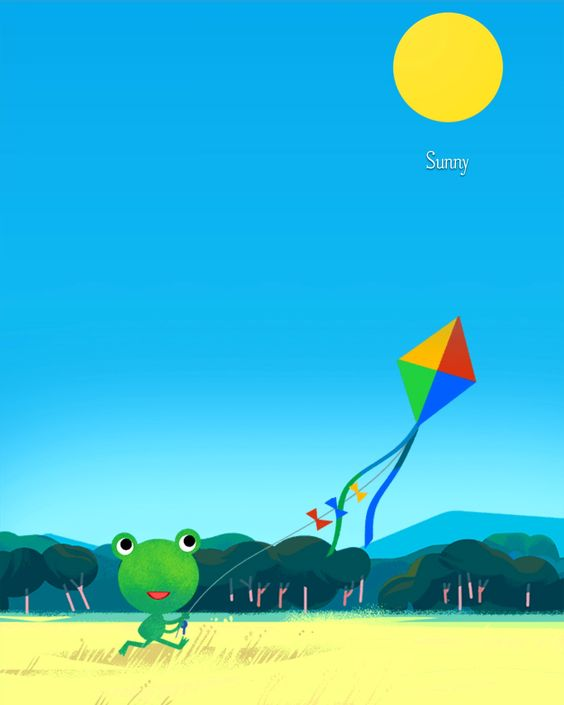
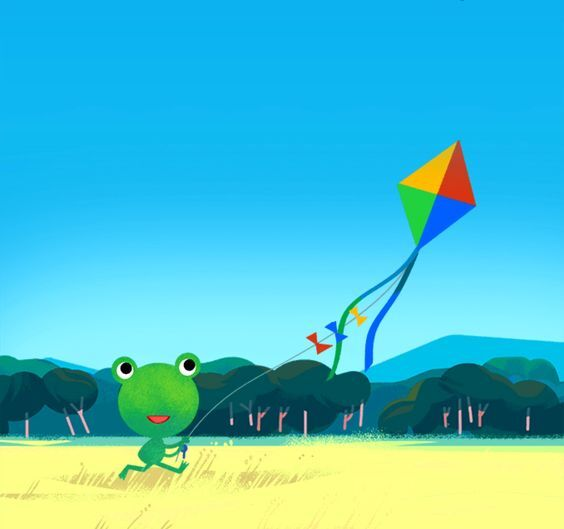
added backgroung image

diff --git a/src/Searchbar/Searchbar.js b/src/Searchbar/Searchbar.js
@@ -4,11 +4,43 @@ import axios from "axios";
 import FormattedDate from "../FormattedDate";
 import WeatherInfo from "../WeatherInfo";
 import Forecast from "../Forecast/Forecast";
-
+import Background from "../Background";
+import clear from "../images/clear.jpg";
+import cloudy from "../images/cloudy.jpg";
+import fog from "../images/fog.jpg";
+import icecrystals from "../images/ice-crystals.jpg";
+import mostlysunny from "../images/mostly-sunny.jpg";
+import partlycloudy from "../images/partly-cloudy.jpg";
+import rain from "../images/rain.jpg";
+import sleet from "../images/sleet.jpg";
+import snow from "../images/snow.jpg";
+import sunny from "../images/sunny.jpg";
+import thunder from "../images/thunder.jpg";
 
 export default function Searchbar(props) {
   let [city, setCity]=useState(props.defaultCity);
   let [weatherData, setWeatherData]=useState({ready: false});
+
+   const imageMapping = {
+    Clear: clear,
+    Clouds: cloudy,
+    Mist: fog,
+    Smoke: cloudy,
+    Haze: partlycloudy,
+    Dust: fog,
+    Fog: fog,
+    Sand: cloudy,
+    Ash: cloudy,
+    Squal: cloudy,
+    Tornado: thunder,
+    Snow: snow,
+    Rain: rain,
+    Drizzle: rain,
+    Thunderstorm:thunder,
+    Sunny:sunny,
+    Sleet:sleet
+  };
+
   function handleResponse(response){
     console.log(response.data);
     setWeatherData({
@@ -19,7 +51,8 @@ export default function Searchbar(props) {
       humidity:response.data.main.humidity,
       description:response.data.weather[0].description,
       date:new Date(response.data.dt * 1000),
-      icon:response.data.weather[0].icon
+      icon:response.data.weather[0].icon,
+      background:response.data.weather[0].main
    
     });
    
@@ -43,16 +76,17 @@ setCity(event.target.value);
   }
   if (weatherData.ready){
     return (
+       <div className="container-fluid p-0"   style={{ 
+            backgroundImage: `url(${
+              imageMapping[weatherData.background]
+            })`, 
+          }}>
     <section>
       <div className="searchbar">
        <div className="row">
            <div className="col">
              <p className="searchbar__dot"> </p> </div>
-               <div className="col">
-              
-           <FormattedDate date = {weatherData.date}/> 
-              
-           </div> 
+          
              
             <div className="col">
              <svg className="searchbar__mbicon" xmlns="http://www.w3.org/2000/svg" width="16" height="16" fill="currentColor" class="bi bi-phone-vibrate" viewBox="0 0 16 16">
@@ -84,7 +118,7 @@ setCity(event.target.value);
 </form></div>
    <WeatherInfo data = {weatherData} className="p-0"/>  
   <Forecast city={weatherData.city}/>
- </section>
+ </section></div>
   );
   }else{
   

diff --git a/src/Background.js b/src/Background.js
@@ -1,0 +1,39 @@
+import clear from "./images/clear.jpg";
+import cloudy from "./images/cloudy.jpg";
+import fog from "./images/fog.jpg";
+import icecrystals from "./images/ice-crystals.jpg";
+import mostlysunny from "./images/mostly-sunny.jpg";
+import partlycloudy from "./images/partly-cloudy.jpg";
+import rain from "./images/rain.jpg";
+import sleet from "./images/sleet.jpg";
+import snow from "./images/snow.jpg";
+import sunny from "./images/sunny.jpg";
+import thunder from "./images/thunder.jpg";
+import "./Background.scss";
+
+export default function Bsackground(props){
+    const iconMapping = {
+    Clear: clear,
+    Clouds: cloudy,
+    Mist: fog,
+    Smoke: cloudy,
+    Haze: partlycloudy,
+    Dust: fog,
+    Fog: fog,
+    Sand: cloudy,
+    Ash: cloudy,
+    Squal: cloudy,
+    Tornado: thunder,
+    Snow: snow,
+    Rain: rain,
+    Drizzle: rain,
+    Thunderstorm:thunder,
+    Sunny:sunny
+  };
+    return (
+    <span className="Icon">
+      <img src={iconMapping[props.data]} alt="icon" className="img-fluid"/>
+    </span>
+  );
+
+}

diff --git a/src/WeatherConversion.js b/src/WeatherConversion.js
@@ -1,4 +1,5 @@
 import React, { useState } from "react";
+import "./WeatherConversion.scss";
 
 export default function WeatherConversion(props){
      const [unit, setUnit] = useState("celsius");
@@ -15,14 +16,14 @@ setUnit("fahrenheit");
          return(
         
      <section>
-             <h1>
-        <span className="temperature_number">{Math.round(props.celsius)}</span>
-        <span className="temperature_units">
+             <h1 className="temperature">
+        <span className="temperature__number">{Math.round(props.celsius)}</span>
+        <span className="temperature__units">
           {" "}
-          <a href="#" className="temperature_celsius" >
+          <a href="#" className="temperature__celsius " >
             °C |
           </a>{" "}
-          <a href="#" className="temperature_farenheit" onClick = {convertTofahrenheit}>
+          <a href="#" className="temperature__farenheit" onClick = {convertTofahrenheit}>
             °F
           </a>
         </span>

diff --git a/src/WeatherInfo.js b/src/WeatherInfo.js
@@ -6,6 +6,7 @@ import WeatherConversion from "./WeatherConversion";
 export default function WeatherInfo(props){
 return(
     <section>
+         <FormattedDate date = {props.data.date}/> 
     <div className="city">
      
       <h2 className="city_current">{props.data.city}</h2>
@@ -20,8 +21,7 @@ return(
         </div>
     <div className="description" >
       <div className="col">
-    <WeatherIcon code={props.data.icon}/>
-      <img src={props.data.icon} alt={props.data.description} className="description_icon" />
+
       <p className="description_attributes">
         Humidity: <span className="desciption_humidity"> {props.data.humidity}</span>% <br />
         Wind: <span className="description_wind">{props.data.wind}</span>km/h
@@ -29,6 +29,7 @@ return(
       </div>
     </div>
     </div>
+   
     </section>
 )
 }

diff --git a/src/App.js b/src/App.js
@@ -5,18 +5,19 @@ import Searchbar from "./Searchbar/Searchbar";
 import clear from "./images/clear.jpg";
 import Forecast from "./Forecast/Forecast";
 
+import Background from "./Background";
 
 function App() {
+
+
   return (
     <div className="App">
-      <div className="container-fluid p-0">  
         <Searchbar defaultCity="London" />
-          </div>
         <footer>
         <a href="https://github.com/barbsindev/React-Weather-App" className="git-link" target="_blank">Open-Source</a> Code by <a href="https://www.linkedin.com/in/barbora-bobalova-629418190/" target="_blank">Barbora Bobalova</a>
     </footer>
     
-    </div>
+   </div>
   );
 }
 

diff --git a/src/Forecast/Forecast.js b/src/Forecast/Forecast.js
@@ -1,5 +1,5 @@
 import React, { useState } from "react";
-import "./Forecast.scss";
+import "./ForecastInfo.scss";
 import axios from "axios";
 import WeatherIcon from "../WeatherIcon";
 import ForecastInfo from "./ForecastInfo";
@@ -17,7 +17,7 @@ setLoaded(true);
 
   if (loaded && props.city === forecast.city.name){
     return(
-    <div className="Forecast row m-0">
+    <div className="Forecast row m-0 small">
 
           <ForecastInfo data={forecast.list[0]} />
           <ForecastInfo data={forecast.list[1]} />

diff --git a/src/App.scss b/src/App.scss
@@ -1,15 +1,11 @@
 @import "./Scss/Colors";
-
 @import "~bootstrap/scss/bootstrap";
-
+@import "./Scss/Fonts";
 .container-fluid {
   max-width: 325px;
   border: black 1px solid;
   border-radius: 20px;
-  background-color: $blue;
-  /*padding-right: 0px;
-  padding-left: 0px;
-  padding: 10px;*/
+
   margin: 0 auto;
   color: $white;
 }

diff --git a/src/Searchbar/Searchbar.scss b/src/Searchbar/Searchbar.scss
@@ -2,8 +2,8 @@
 @import "../Scss/Fonts";
 
 .searchbar {
-  background-color: $dark-blue;
   padding: 10px;
+
   border-radius: 10px;
   &__dot {
     height: 20px;
@@ -14,9 +14,7 @@
   &__search {
     width: 100%;
   }
-  &__svg {
-    width: 20px;
-  }
+
   button {
     background-color: $white;
     border: none;

diff --git a/src/Forecast/ForecastInfo.scss b/src/Forecast/ForecastInfo.scss
@@ -3,12 +3,18 @@
 
 .Forecast {
   text-align: center;
-  background-color: $light-blue;
+  background-color: $opacity;
   border-radius: 10px;
   padding: 20px;
-  column-gap: 10px;
+  column-gap: 15px;
 
   &__temp {
     margin: 0;
   }
+  .col {
+    font-size: 11px;
+  }
+}
+.col-2 {
+  font-size: 0.75rem;
 }

diff --git a/src/Scss/_Fonts.scss b/src/Scss/_Fonts.scss
@@ -1,13 +1,20 @@
 @import "../Scss/Colors";
 
 p {
-  color: $black;
   font-size: 15px;
 }
 
+.units {
+  color: $white;
+}
+
+a {
+  color: $white;
+  font-size: 20px;
+}
 canvas {
   display: block;
-  color: white;
+  color: $white;
   width: 25px;
 }
 

diff --git a/src/Forecast/ForecastInfo.js b/src/Forecast/ForecastInfo.js
@@ -13,7 +13,8 @@ export default function ForecastInfo(props){
 return `${temperature}`;
     }
 return(
- <div classname="col-2">
+ <div classname="col">
+    
 {hours()}
       <WeatherIcon code= {props.data.weather[0].icon} />
       {temperature()}

diff --git a/src/WeatherConversion.scss b/src/WeatherConversion.scss
@@ -1,0 +1,9 @@
+@import "./Scss/Fonts";
+@import "./Scss/Colors";
+
+/*.temperature__units {
+  font-size: 20px;
+}
+.temperature a {
+  color: $white;
+}*/
